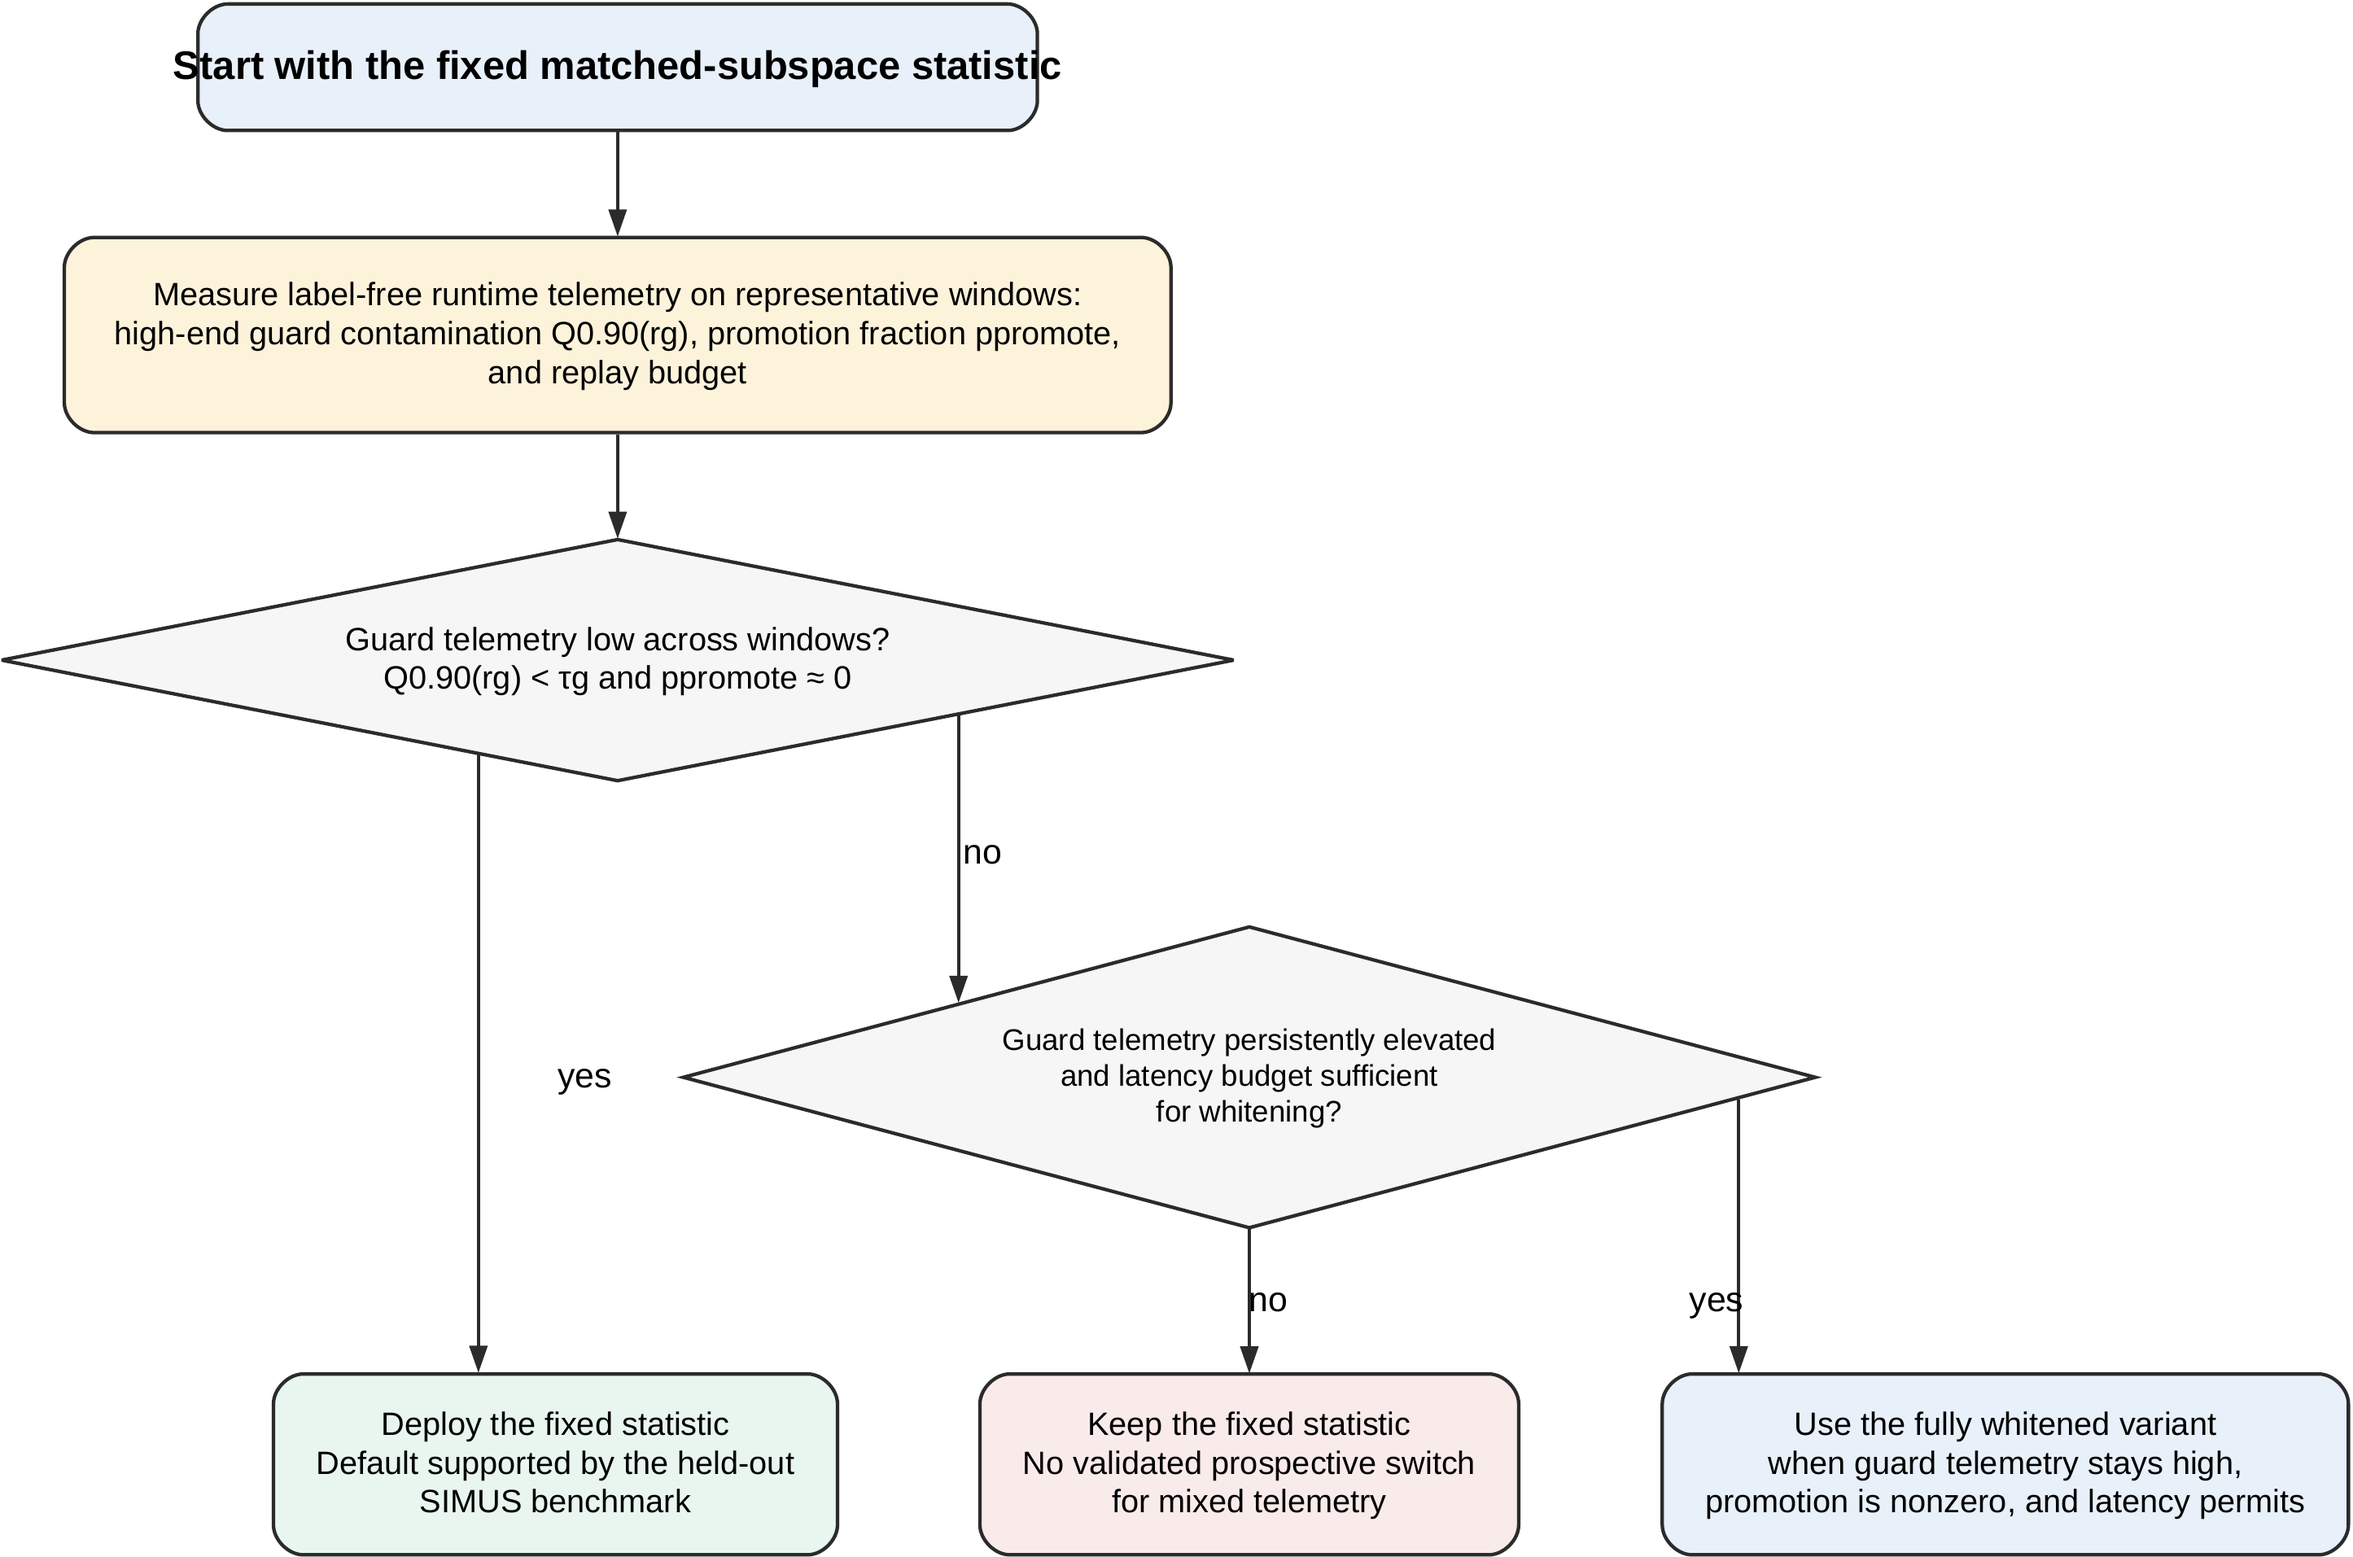
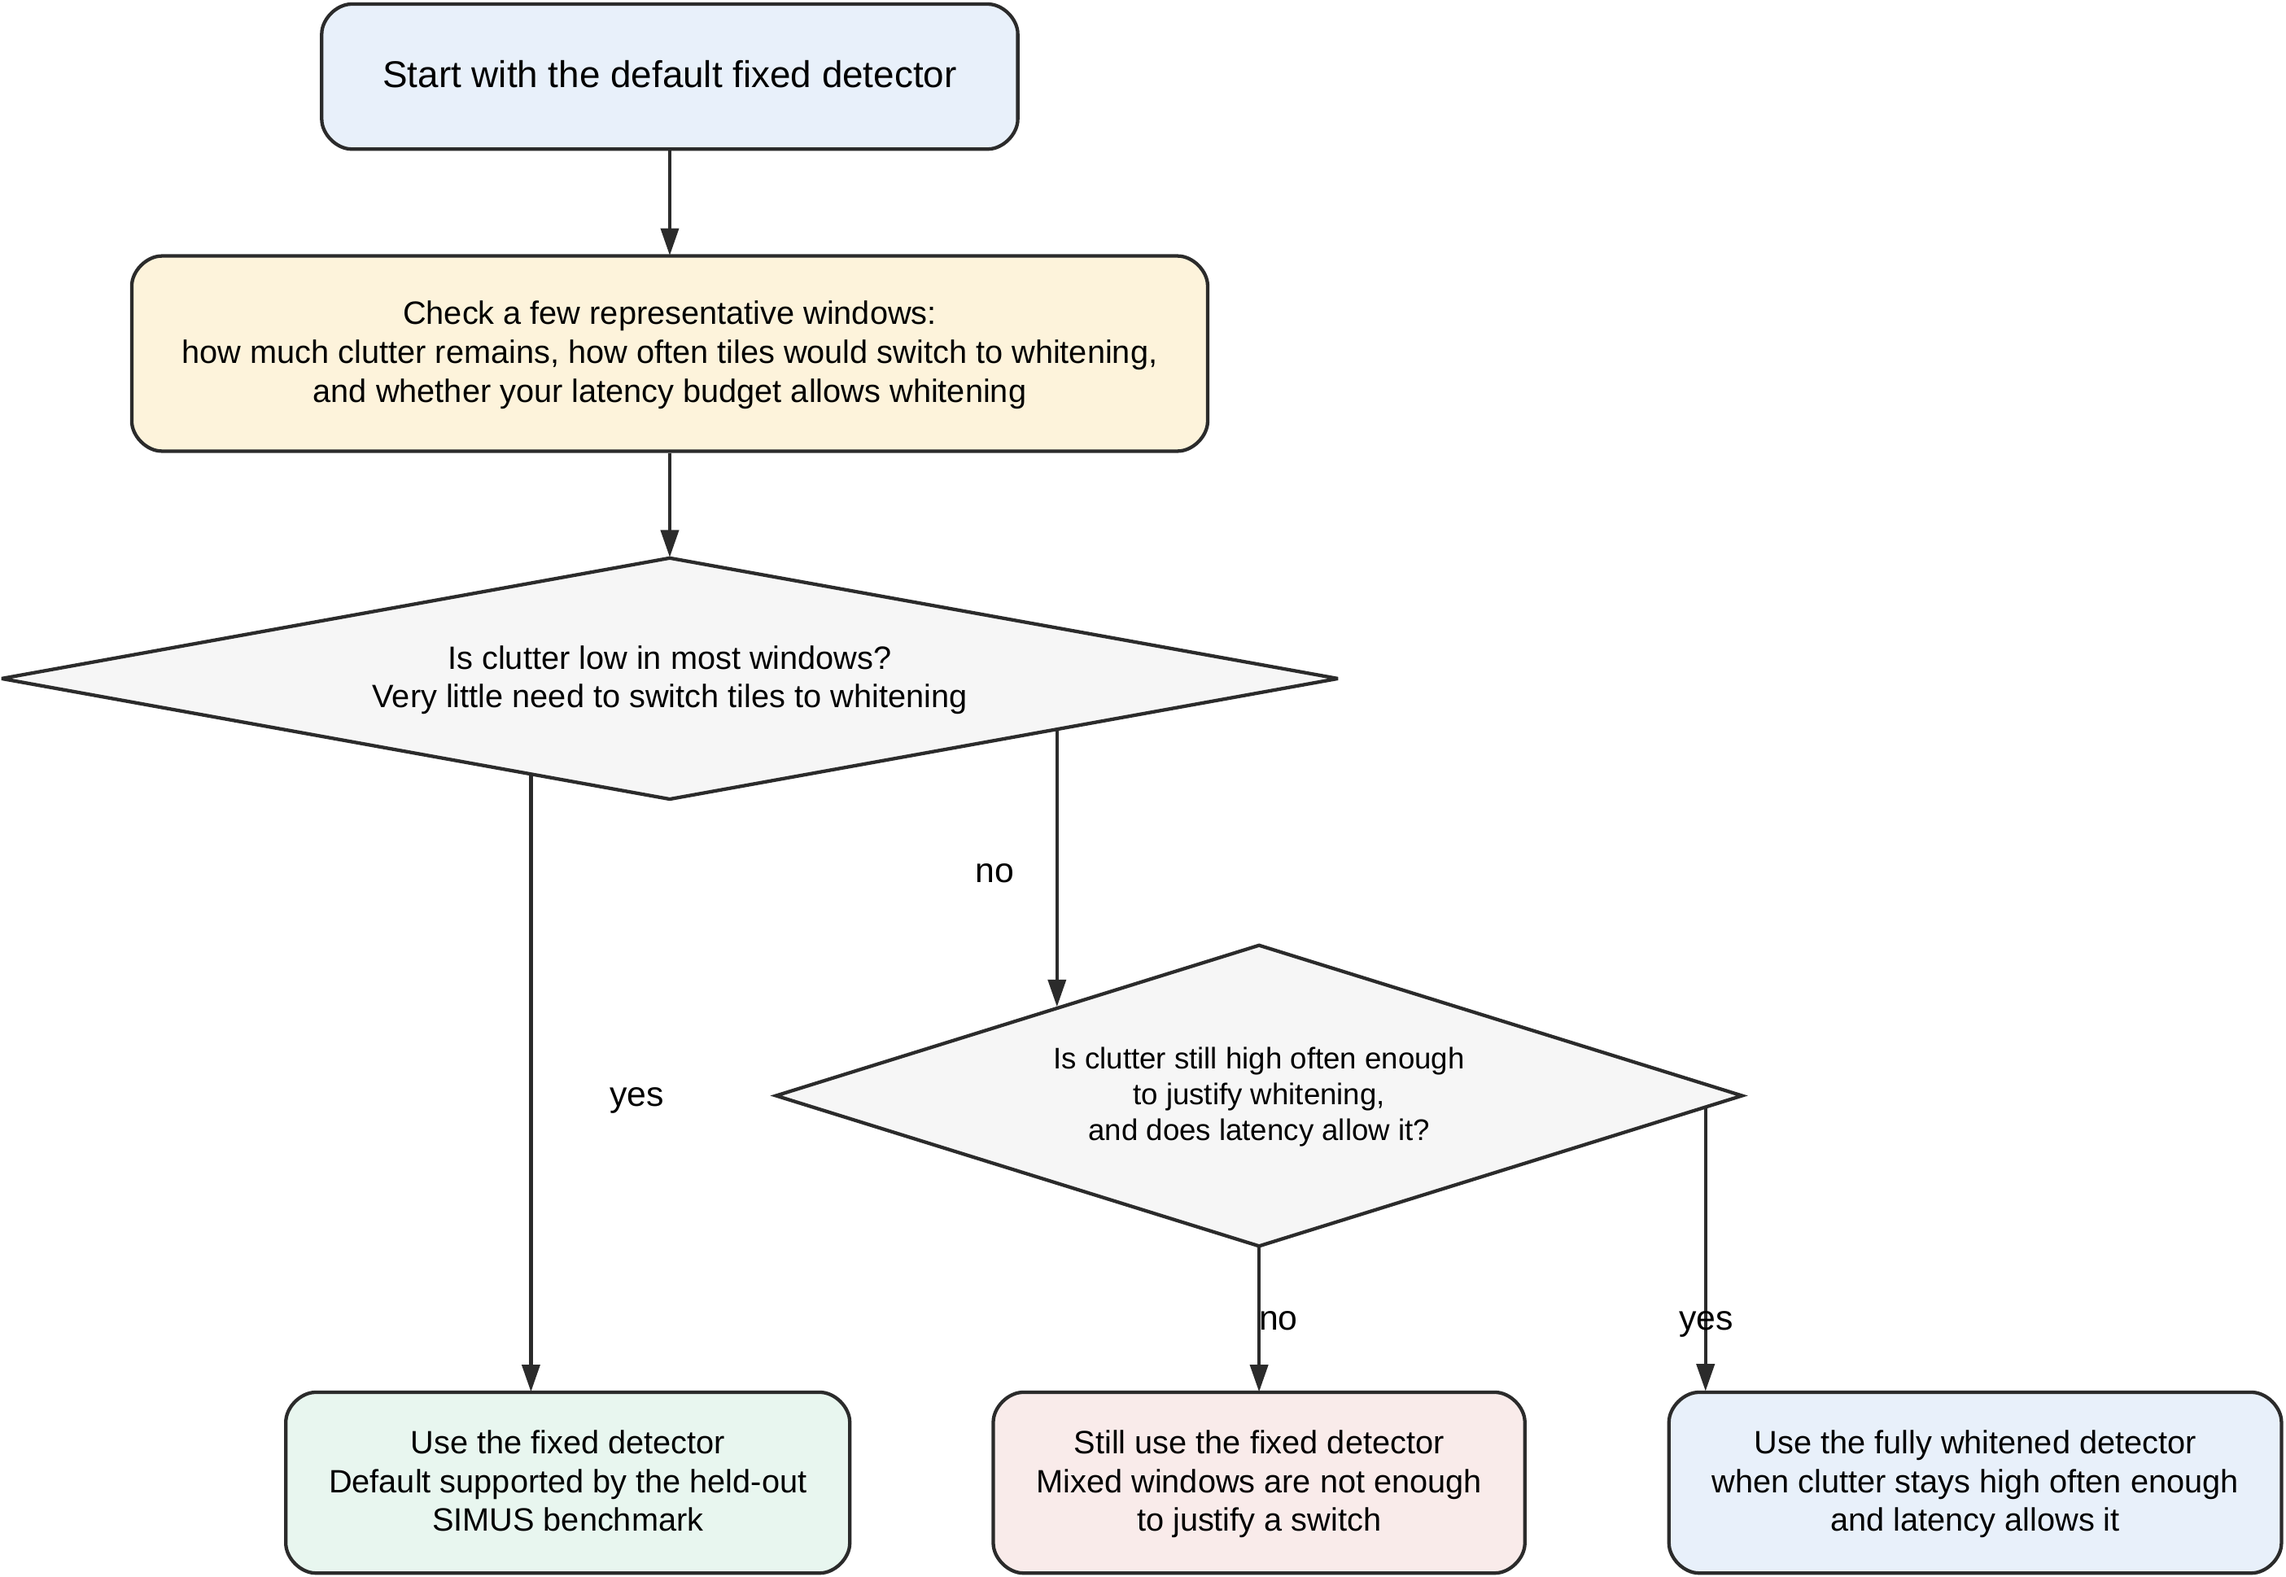
Simplify README variant-selection flowchart wording

diff --git a/scripts/fig_variant_selection_flowchart.py b/scripts/fig_variant_selection_flowchart.py
@@ -29,10 +29,10 @@ digraph G {
     shape=box,
     style="rounded,filled",
     fillcolor="#e8f0fa",
-    margin="0.28,0.22",
-    fontsize=16,
-    fontname="Helvetica-Bold",
-    label="Start with the fixed matched-subspace statistic"
+    margin="0.34,0.28",
+    fontsize=15,
+    fontname="Helvetica",
+    label="Start with the default fixed detector"
   ];
 
   measure [
@@ -41,7 +41,7 @@ digraph G {
     fillcolor="#fdf3db",
     margin="0.28,0.22",
     fontsize=13,
-    label="Measure label-free runtime telemetry on representative windows:\nhigh-end guard contamination Q0.90(rg), promotion fraction ppromote,\nand replay budget"
+    label="Check a few representative windows:\nhow much clutter remains, how often tiles would switch to whitening,\nand whether your latency budget allows whitening"
   ];
 
   low_guard [
@@ -50,7 +50,7 @@ digraph G {
     fillcolor="#f6f6f6",
     margin="0.20,0.12",
     fontsize=13,
-    label="Guard telemetry low across windows?\nQ0.90(rg) < τg and ppromote ≈ 0"
+    label="Is clutter low in most windows?\nVery little need to switch tiles to whitening"
   ];
 
   high_guard [
@@ -59,7 +59,7 @@ digraph G {
     fillcolor="#f6f6f6",
     margin="0.20,0.12",
     fontsize=12,
-    label="Guard telemetry persistently elevated\nand latency budget sufficient\nfor whitening?"
+    label="Is clutter still high often enough\nto justify whitening,\nand does latency allow it?"
   ];
 
   deploy_fixed [
@@ -68,7 +68,7 @@ digraph G {
     fillcolor="#e8f6ef",
     margin="0.24,0.18",
     fontsize=13,
-    label="Deploy the fixed statistic\nDefault supported by the held-out\nSIMUS benchmark"
+    label="Use the fixed detector\nDefault supported by the held-out\nSIMUS benchmark"
   ];
 
   keep_fixed [
@@ -77,7 +77,7 @@ digraph G {
     fillcolor="#f9ebea",
     margin="0.24,0.18",
     fontsize=13,
-    label="Keep the fixed statistic\nNo validated prospective switch\nfor mixed telemetry"
+    label="Still use the fixed detector\nMixed windows are not enough\nto justify a switch"
   ];
 
   use_whitened [
@@ -86,7 +86,7 @@ digraph G {
     fillcolor="#e8f0fa",
     margin="0.24,0.18",
     fontsize=13,
-    label="Use the fully whitened variant\nwhen guard telemetry stays high,\npromotion is nonzero, and latency permits"
+    label="Use the fully whitened detector\nwhen clutter stays high often enough\nand latency allows it"
   ];
 
   { rank=same; deploy_fixed keep_fixed use_whitened }

diff --git a/README.md b/README.md
@@ -156,7 +156,7 @@ see [examples/svd_pipeline_readout_swap.py](examples/svd_pipeline_readout_swap.p
 ## Which Variant to Use
 
 <p align="center">
-  <img src="docs/assets/readme_variant_selection.png" alt="Detector selection flowchart: start with fixed, escalate to fully whitened only in persistently clutter-dominant windows with latency margin." width="760">
+  <img src="docs/assets/readme_variant_selection.png" alt="Detector selection flowchart: start with the default fixed detector and move to the fully whitened detector only when clutter stays high on representative windows and latency allows it." width="760">
 </p>
 
 Use the public variants this way:
@@ -165,7 +165,7 @@ Use the public variants this way:
 - `whitened`: use when your acquisition repeatedly shows clutter-dominant windows and you can tolerate the extra compute.
 - `whitened_power`: keep as a bounded ablation, not a default deployment choice.
 
-The short integration rule is: start with `fixed`, inspect the adaptive telemetry, and only move to `whitened` when the clutter evidence stays elevated on representative windows. The fuller rationale is in [docs/integration.md](docs/integration.md) and in the deployment flowchart in [paper/preprint.pdf](paper/preprint.pdf).
+The short integration rule is: start with `fixed`, check a few representative windows, and only move to `whitened` when clutter stays high often enough that whitening is worth the extra compute. The fuller rationale is in [docs/integration.md](docs/integration.md) and in the deployment flowchart in [paper/preprint.pdf](paper/preprint.pdf).
 
 ## Common Failure Modes
 
